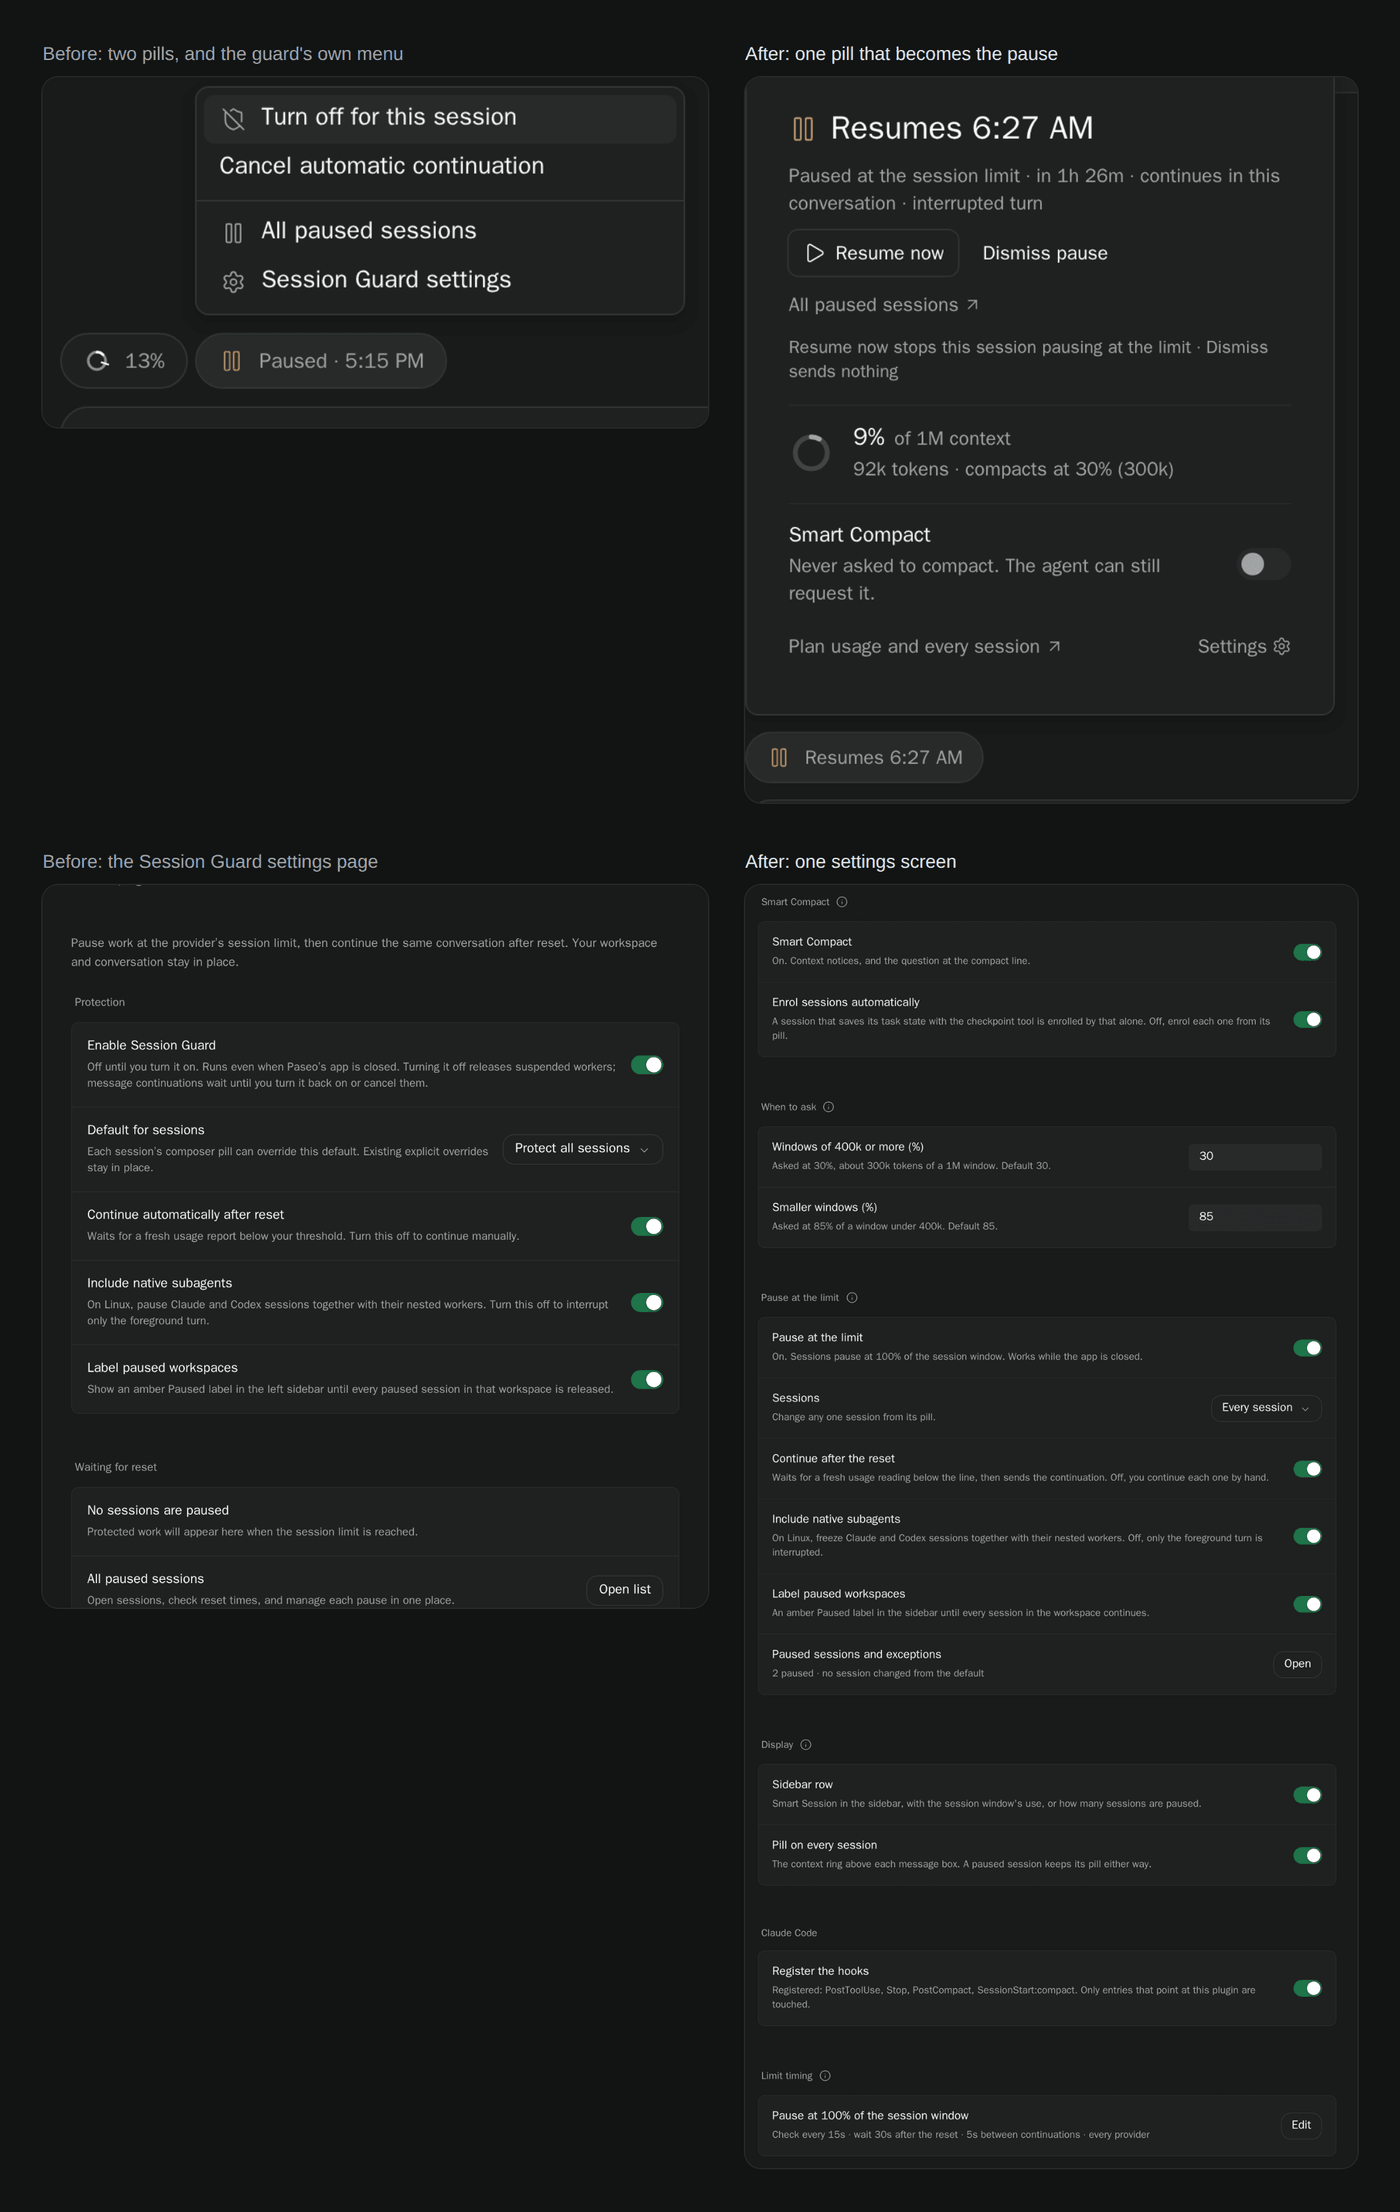
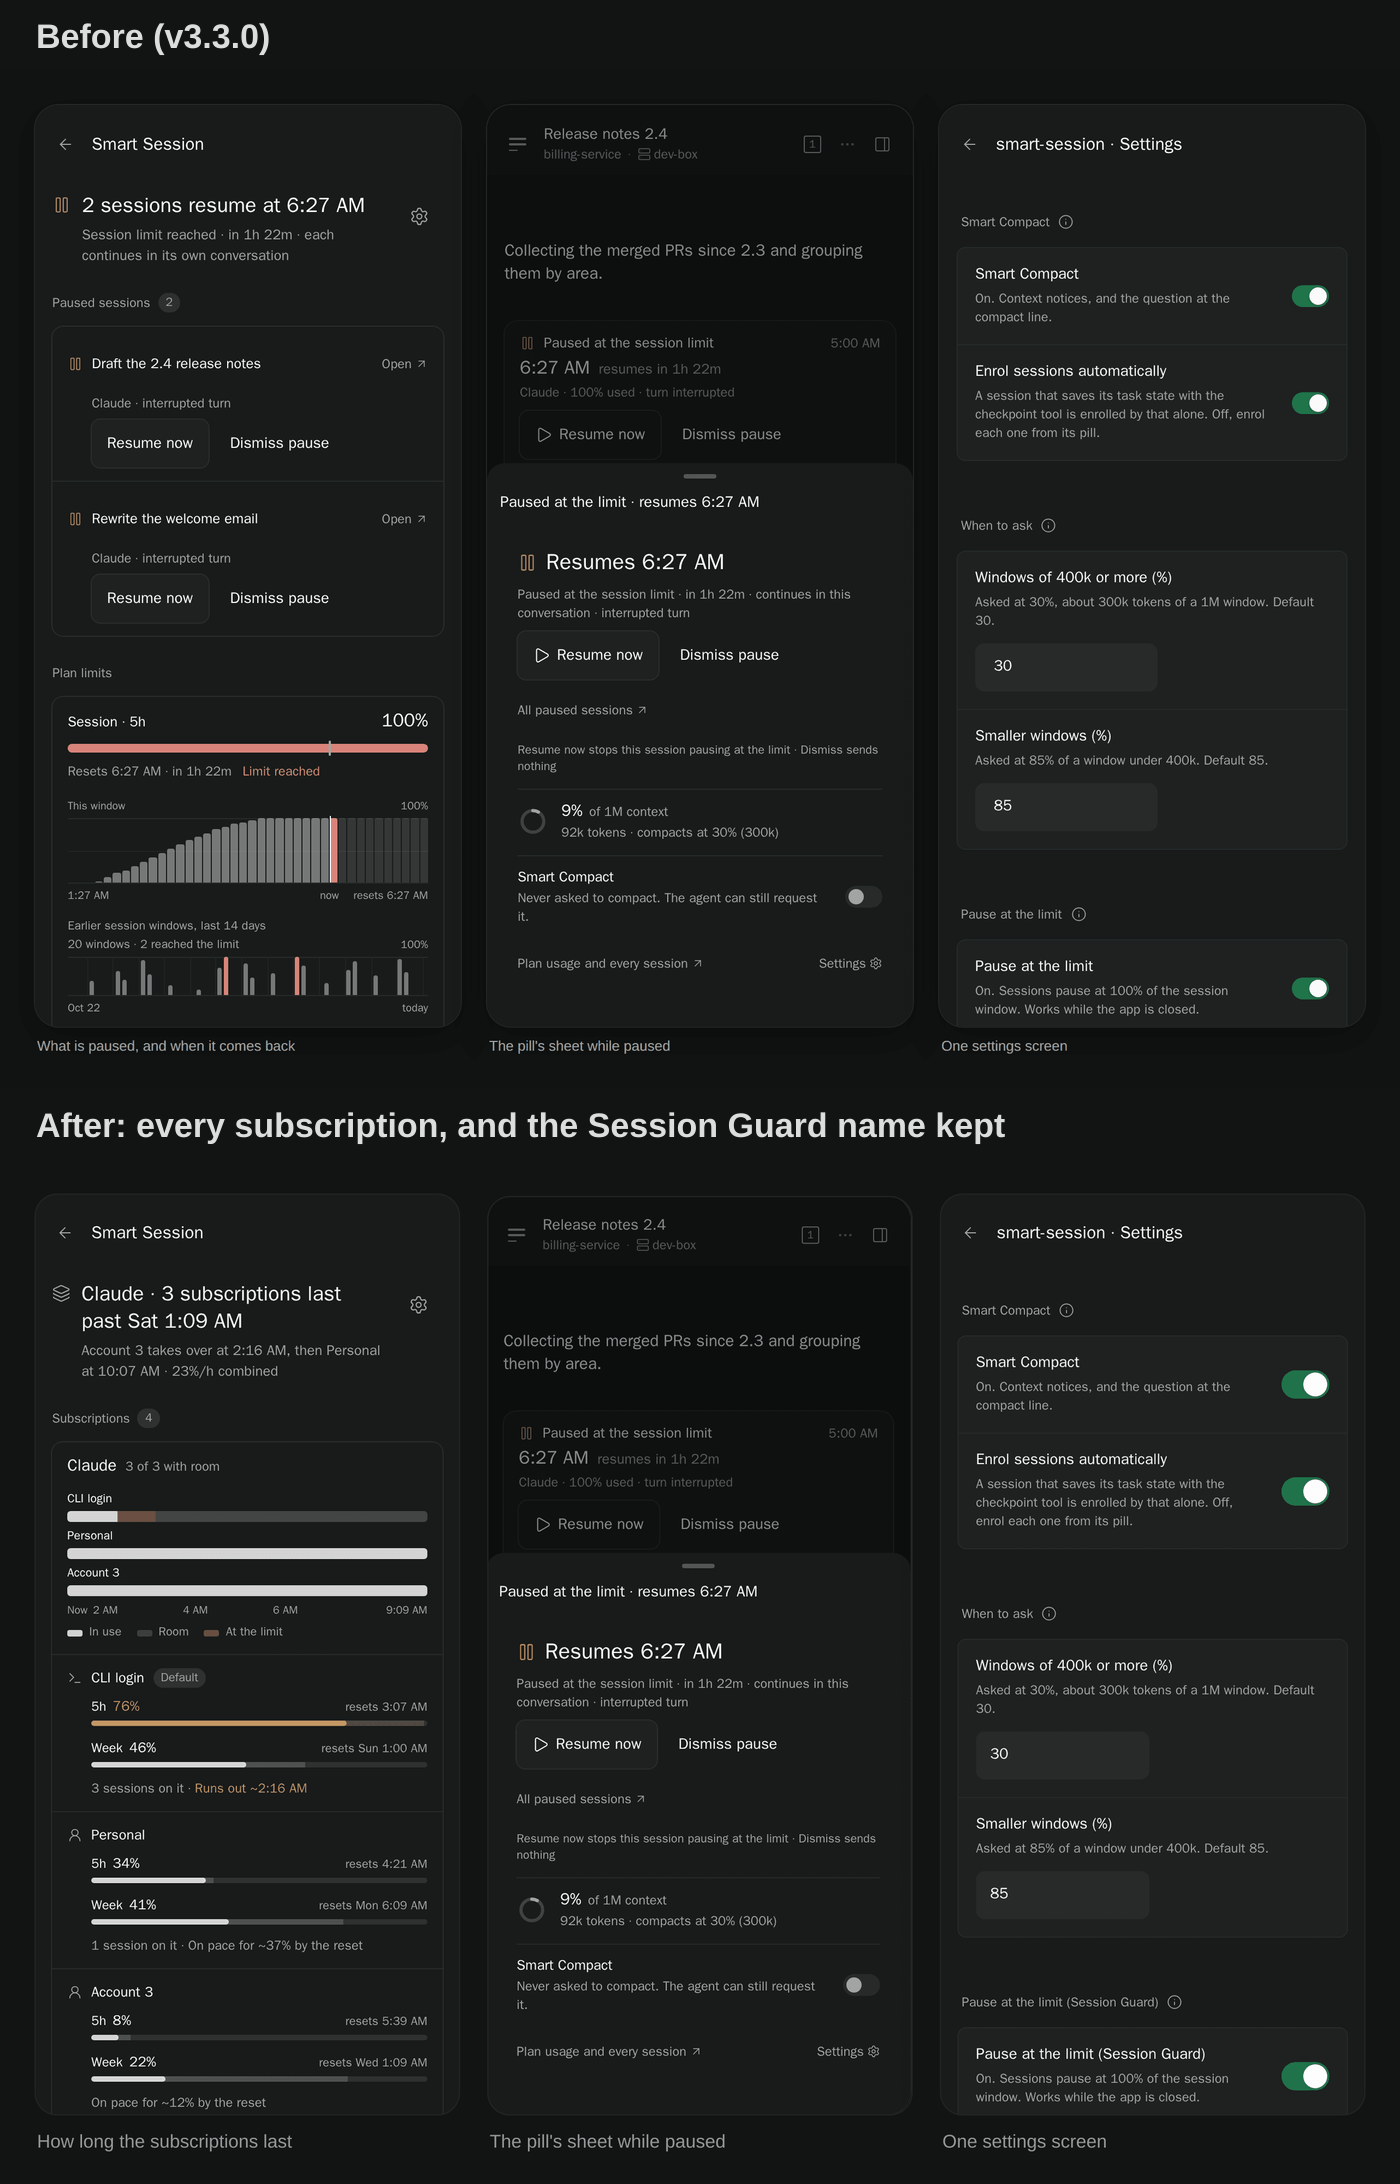
docs(media): subscriptions overview (light and dark), pill, phones, settings, before/after

diff --git a/README.md b/README.md
@@ -35,7 +35,7 @@ Each session has one pill above its message box: a ring of its context, with a t
 
 ![Pressing the context ring above the message box, then following it to the Smart Session screen and sweeping the window chart: recorded usage up to now, the projection at this pace, and the stretch after it runs out](docs/media/smart-session-flow.gif)
 
-![Two popovers of the one pill. Left: 34% of a 1M context, past its compact line, task state and last compaction, then the Smart Compact and Pause at the limit switches for this session. Right: the same pill while paused, reading Resumes 6:27 AM, with Cancel continuation and a link to all paused sessions](docs/media/smart-session-pill.png)
+![Two popovers of the one pill. Left: 13% of a 1M context, task state and last compaction, the subscription the session runs on (CLI login, 5h 76%, week 46%: runs out around 2:14 AM, then ZeroSub moves it to Account 3), then the Smart Compact and Pause at the limit (Session Guard) switches for this session. Right: the same pill while paused, reading Resumes 6:27 AM, with Resume now, Dismiss pause and a link to all paused sessions](docs/media/smart-session-pill.png)
 
 Agents get these tools:
 
@@ -70,7 +70,10 @@ With [ZeroSub](https://github.com/kapybara-org/zerosub) running several Claude o
 
 Smart Session keeps each account's readings in its own history (by ZeroSub's account id, never the email), so every account has a pace. ZeroSub's files are only read. A reading older than half an hour says so and adds no pace. Without ZeroSub, nothing changes.
 
-![The Smart Session overview with ZeroSub: the headline Claude · 3 subscriptions last past Friday, a runway with one lane per Claude account showing when each is in use, has room or is at the limit, then a row per account with its 5-hour and weekly windows, and a Codex card with credits](docs/media/smart-session-subscriptions.png)
+<picture>
+  <source media="(prefers-color-scheme: light)" srcset="docs/media/smart-session-subscriptions-light.png">
+  <img alt="The Smart Session overview with ZeroSub: the headline Claude · 3 subscriptions last past Sat 1:05 AM, Account 3 takes over at 2:12 AM, then Personal at 10:03 AM. A runway with one lane per Claude account showing when each is in use, has room or is at the limit, a row per account with its 5-hour and weekly windows, reset times and when it runs out, and a Codex card with credits" src="docs/media/smart-session-subscriptions.png">
+</picture>
 
 ## Pause at the limit (Session Guard)
 
@@ -84,7 +87,7 @@ If the standalone Session Guard plugin is still enabled, it keeps doing the paus
 
 On a phone, the pill opens as a sheet and every screen fits one column.
 
-![Smart Session at phone width: the overview leading with paused sessions, the pill's sheet while paused, and the settings screen](docs/media/smart-session-mobile.png)
+![Smart Session at phone width: the overview with every subscription and its runway, the pill's sheet while paused, and the settings screen with Pause at the limit (Session Guard)](docs/media/smart-session-mobile.png)
 
 ## Settings
 
@@ -108,7 +111,7 @@ Everything is on one screen, **Settings → Plugins → Smart Session**, in the 
 
 Hiding the row or the pill never turns a feature off.
 
-![The Smart Session settings screen: Smart Compact, When to ask, Pause at the limit, Display, Claude Code and Limit timing](docs/media/smart-session-settings.png)
+![The Smart Session settings screen: Smart Compact, When to ask, Pause at the limit (Session Guard), Display, Claude Code and Limit timing](docs/media/smart-session-settings.png)
 
 ## Data and access
 
